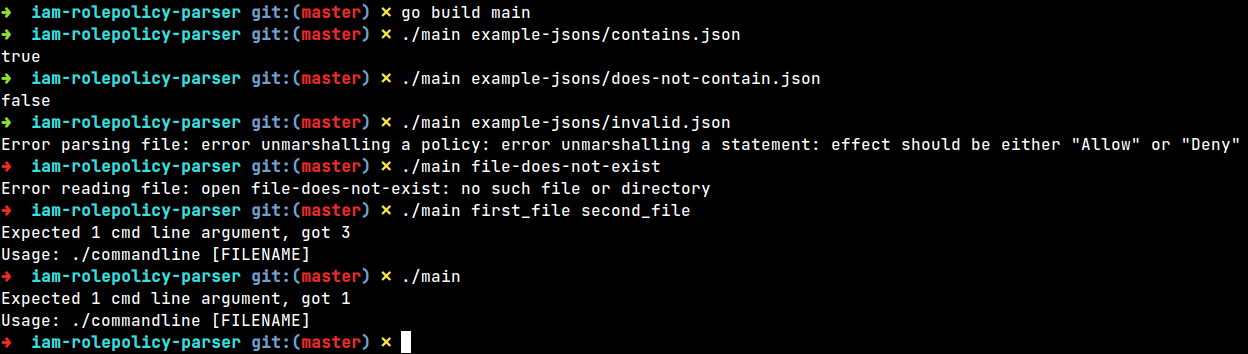
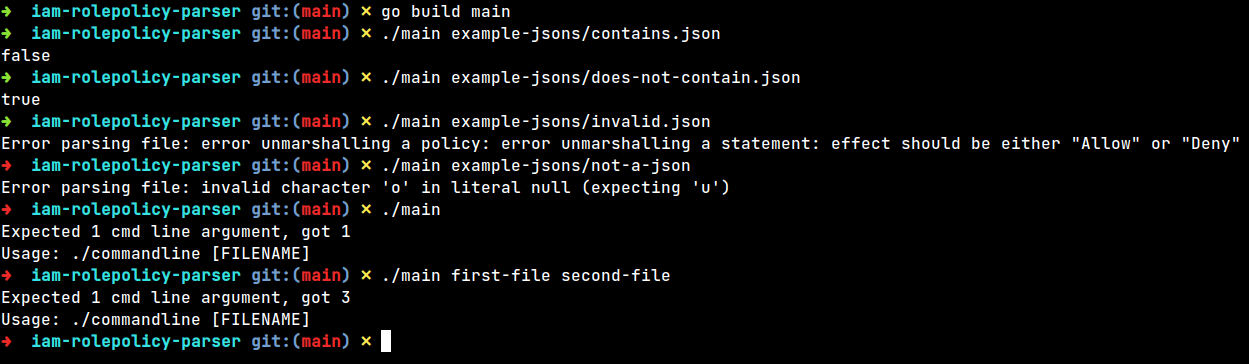
FIX: HasAStatementResourceAWildcard -> NoStatementHasWildcardResource

Changed region(s): [[0.0, 0.0, 1.0, 1.0]]

diff --git a/iamrolepolicyparsing/iamrolepolicy_test.go b/iamrolepolicyparsing/iamrolepolicy_test.go
@@ -232,7 +232,7 @@ func TestIamRolePolicy_UnmarshalWhenCouldNotParsePolicyDocument(t *testing.T) {
 	}
 }
 
-func TestIamRolePolicy_HasAStatementResourceAWildcardIfHas(t *testing.T) {
+func TestIamRolePolicy_NoStatementHasWildcardResourceWhenFalse(t *testing.T) {
 	stringOf := func(s string) *string { return &s }
 	policy := IamRolePolicy{
 		PolicyName: stringOf("123"),
@@ -254,12 +254,12 @@ func TestIamRolePolicy_HasAStatementResourceAWildcardIfHas(t *testing.T) {
 		},
 	}
 
-	if !policy.HasAStatementResourceAWildcard() {
-		t.Errorf("Expected true, got false")
+	if policy.NoStatementHasWildcardResource() {
+		t.Errorf("Expected false, got true")
 	}
 }
 
-func TestIamRolePolicy_HasAStatementResourceAWildcardIfHasNot(t *testing.T) {
+func TestIamRolePolicy_NoStatementHasWildcardResourceWhenTrue(t *testing.T) {
 	stringOf := func(s string) *string { return &s }
 	policy := IamRolePolicy{
 		PolicyName: stringOf("123"),
@@ -281,7 +281,7 @@ func TestIamRolePolicy_HasAStatementResourceAWildcardIfHasNot(t *testing.T) {
 		},
 	}
 
-	if policy.HasAStatementResourceAWildcard() {
-		t.Errorf("Expected false, got true")
+	if !policy.NoStatementHasWildcardResource() {
+		t.Errorf("Expected true, got false")
 	}
 }

diff --git a/iamrolepolicyparsing/iamrolepolicy.go b/iamrolepolicyparsing/iamrolepolicy.go
@@ -78,11 +78,11 @@ func (policy *IamRolePolicy) UnmarshalJSON(data []byte) error {
  *
  * see (stat Statement)isResourceAWildcard() bool in statement.go
  */
-func (policy IamRolePolicy) HasAStatementResourceAWildcard() bool {
+func (policy IamRolePolicy) NoStatementHasWildcardResource() bool {
 	for _, statement := range *policy.PolicyDocument.Statements {
 		if statement.isResourceAWildcard() {
-			return true
+			return false
 		}
 	}
-	return false
+	return true
 }

diff --git a/commandline.go b/commandline.go
@@ -26,5 +26,5 @@ func main() {
 		os.Exit(1)
 	}
 
-	println(iamRolePolicy.HasAStatementResourceAWildcard())
+	println(iamRolePolicy.NoStatementHasWildcardResource())
 }

diff --git a/README.md b/README.md
@@ -6,8 +6,9 @@ Works with AWS::IAM::RolePolicy versions "2012-10-17" and "2008-10-17".
 
 ## Function type signature
 The `IamRolePolicy` type and the method below are defined in the `iamrolepolicyparsing` package.
+The method checks whether in any statement in the policy, the Resource value of a role policy statement is a wildcard and returns false if it is.
 ```go
-func (p *IamRolePolicy) HasAStatementResourceAWildcard() bool
+func (p *IamRolePolicy) NoStatementHasWildcardResource() bool
 ```
 ## Code example (excerpt from commandline.go)
 ```go
@@ -18,7 +19,7 @@ if err != nil {
     os.Exit(1)
 }
 
-println(iamRolePolicy.HasAStatementResourceAWildcard())
+println(iamRolePolicy.NoStatementHasWildcardResource())
 ```
 
 ## You can use the method directly in your code, or you can compile and run the program from the command line with a file name as an argument.
